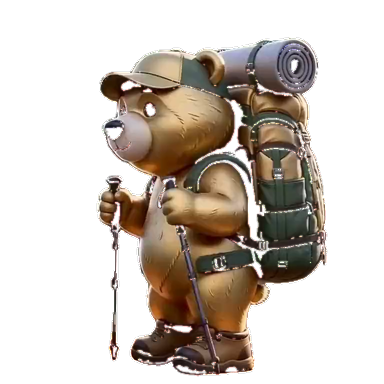
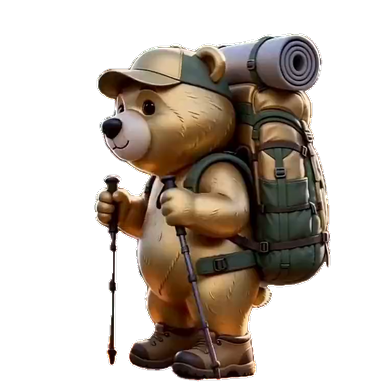
小贝森林版重做：填内部孔洞保证主体完整、取景窗按宽高最大值并留 8% 余量（不再裁到脚）、粘连剔除只限轮廓 8px 内

Changed region(s): [[0.25, 0.0625, 0.875, 1.0], [0.5312, 0.3125, 0.5625, 0.3438], [0.4688, 0.7812, 0.5, 0.8125]]

diff --git a/about.html b/about.html
@@ -370,7 +370,7 @@ var _hmt = _hmt || [];
     <!-- 小贝 · AI 替身（林间小熊入口 + 弹窗） -->
     <div id="bai-walker">
       <button id="bai-btn" type="button" aria-label="问贝加尔湖50径" title="有问题问它">
-        <img src="/xiaobei-forest.webp?v=20261103s" width="320" height="320"
+        <img src="/xiaobei-forest.webp?v=20261103u" width="320" height="320"
              alt="小贝背着背包走在贝加尔湖岸的松林里" aria-hidden="true">
       </button>
       <span class="bai-tip">有问题？问一句</span>
